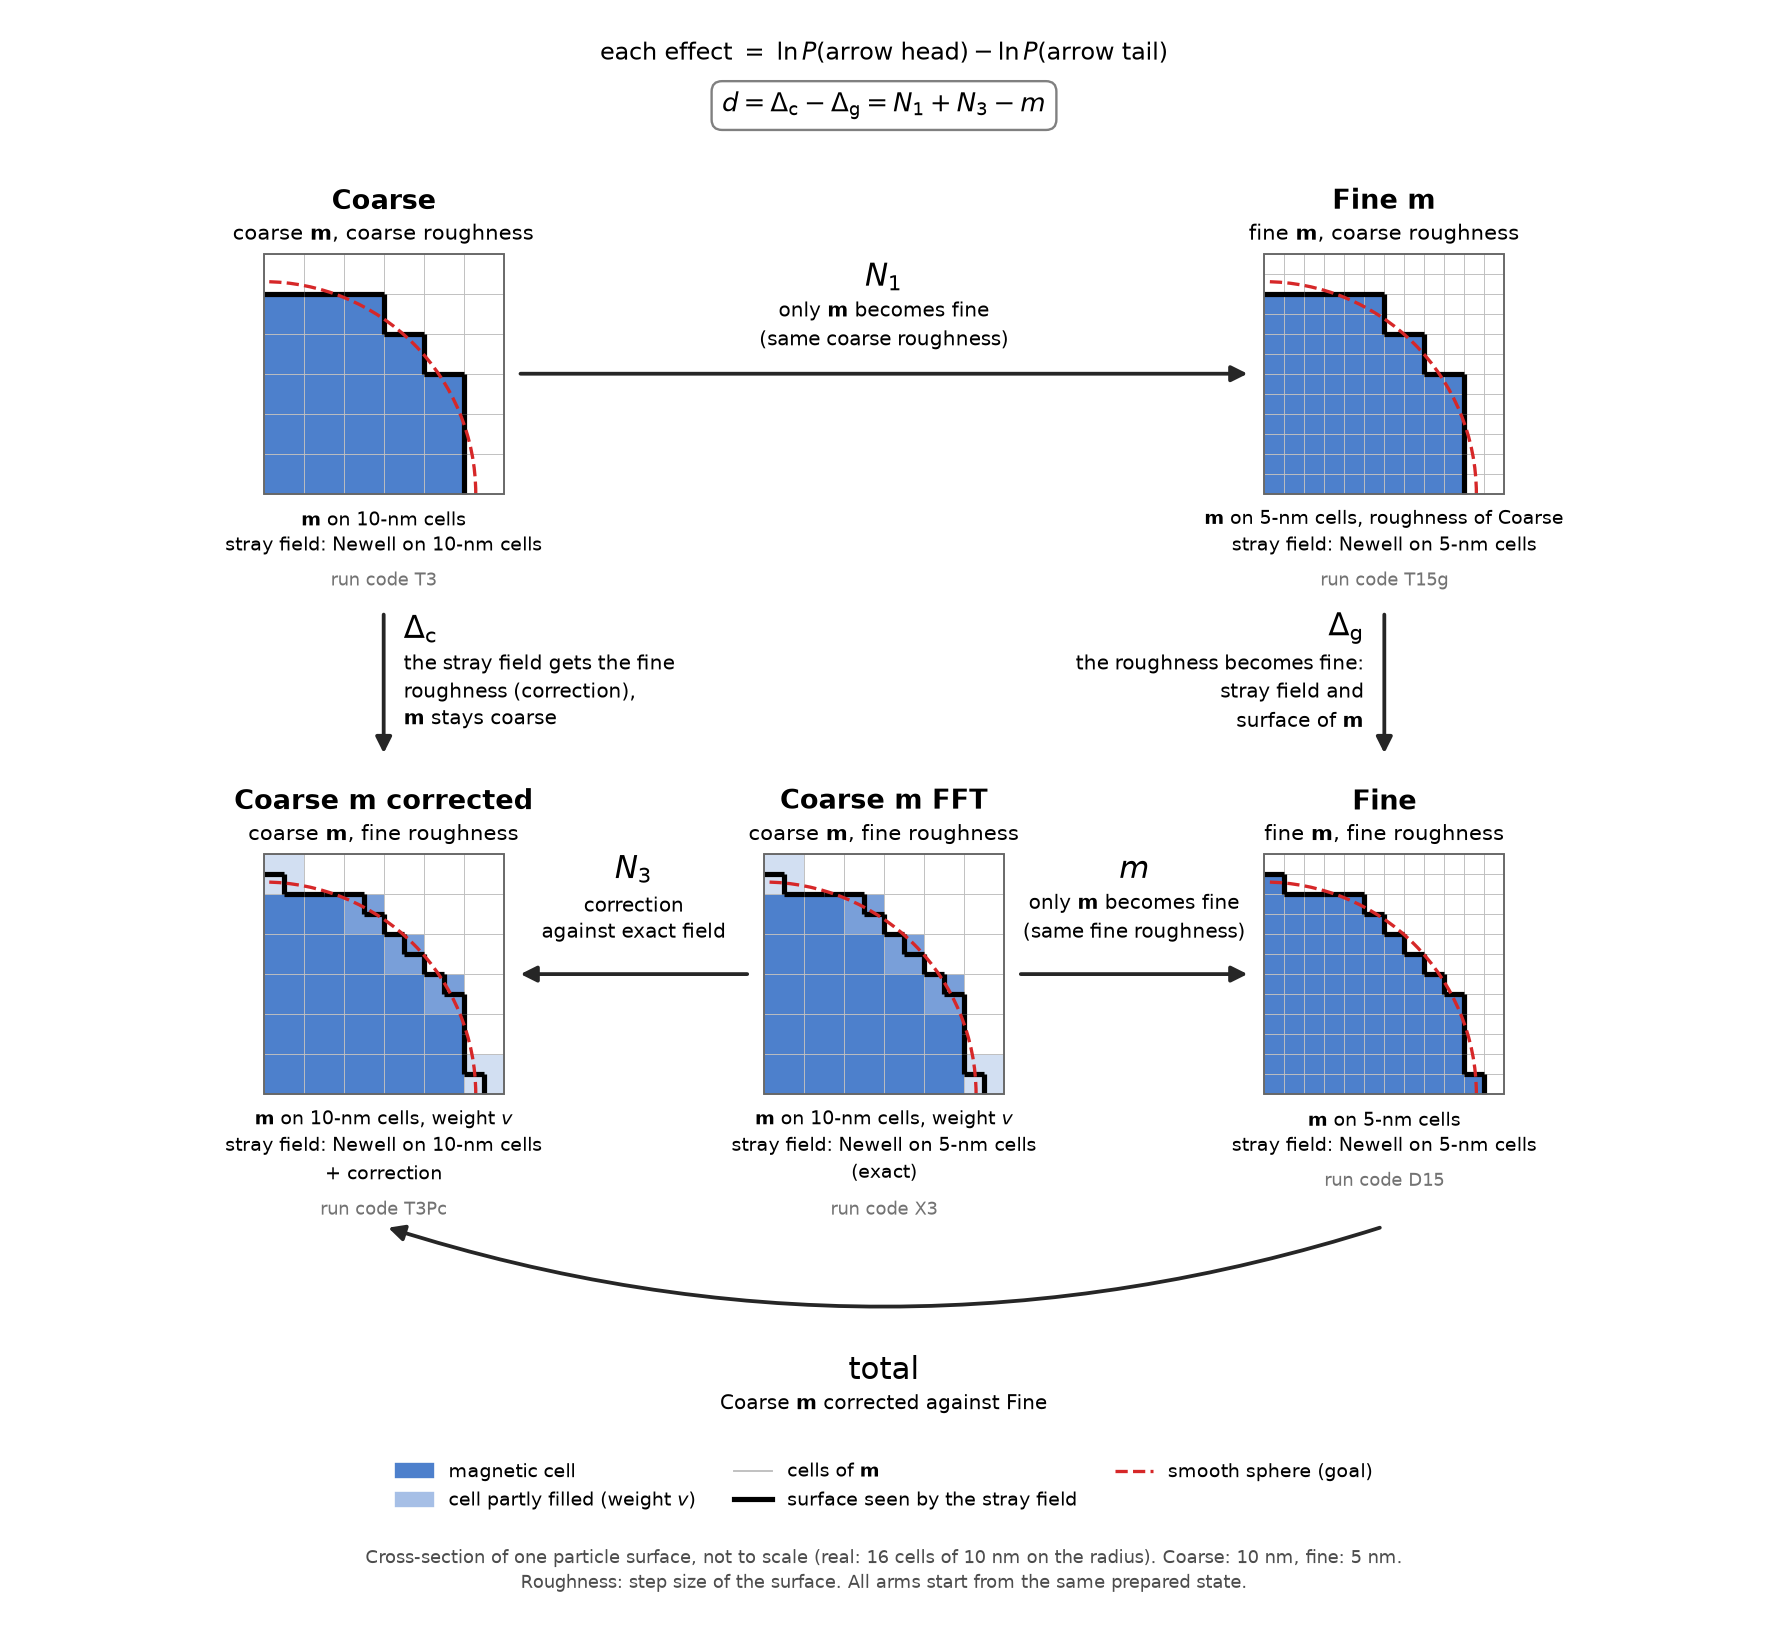
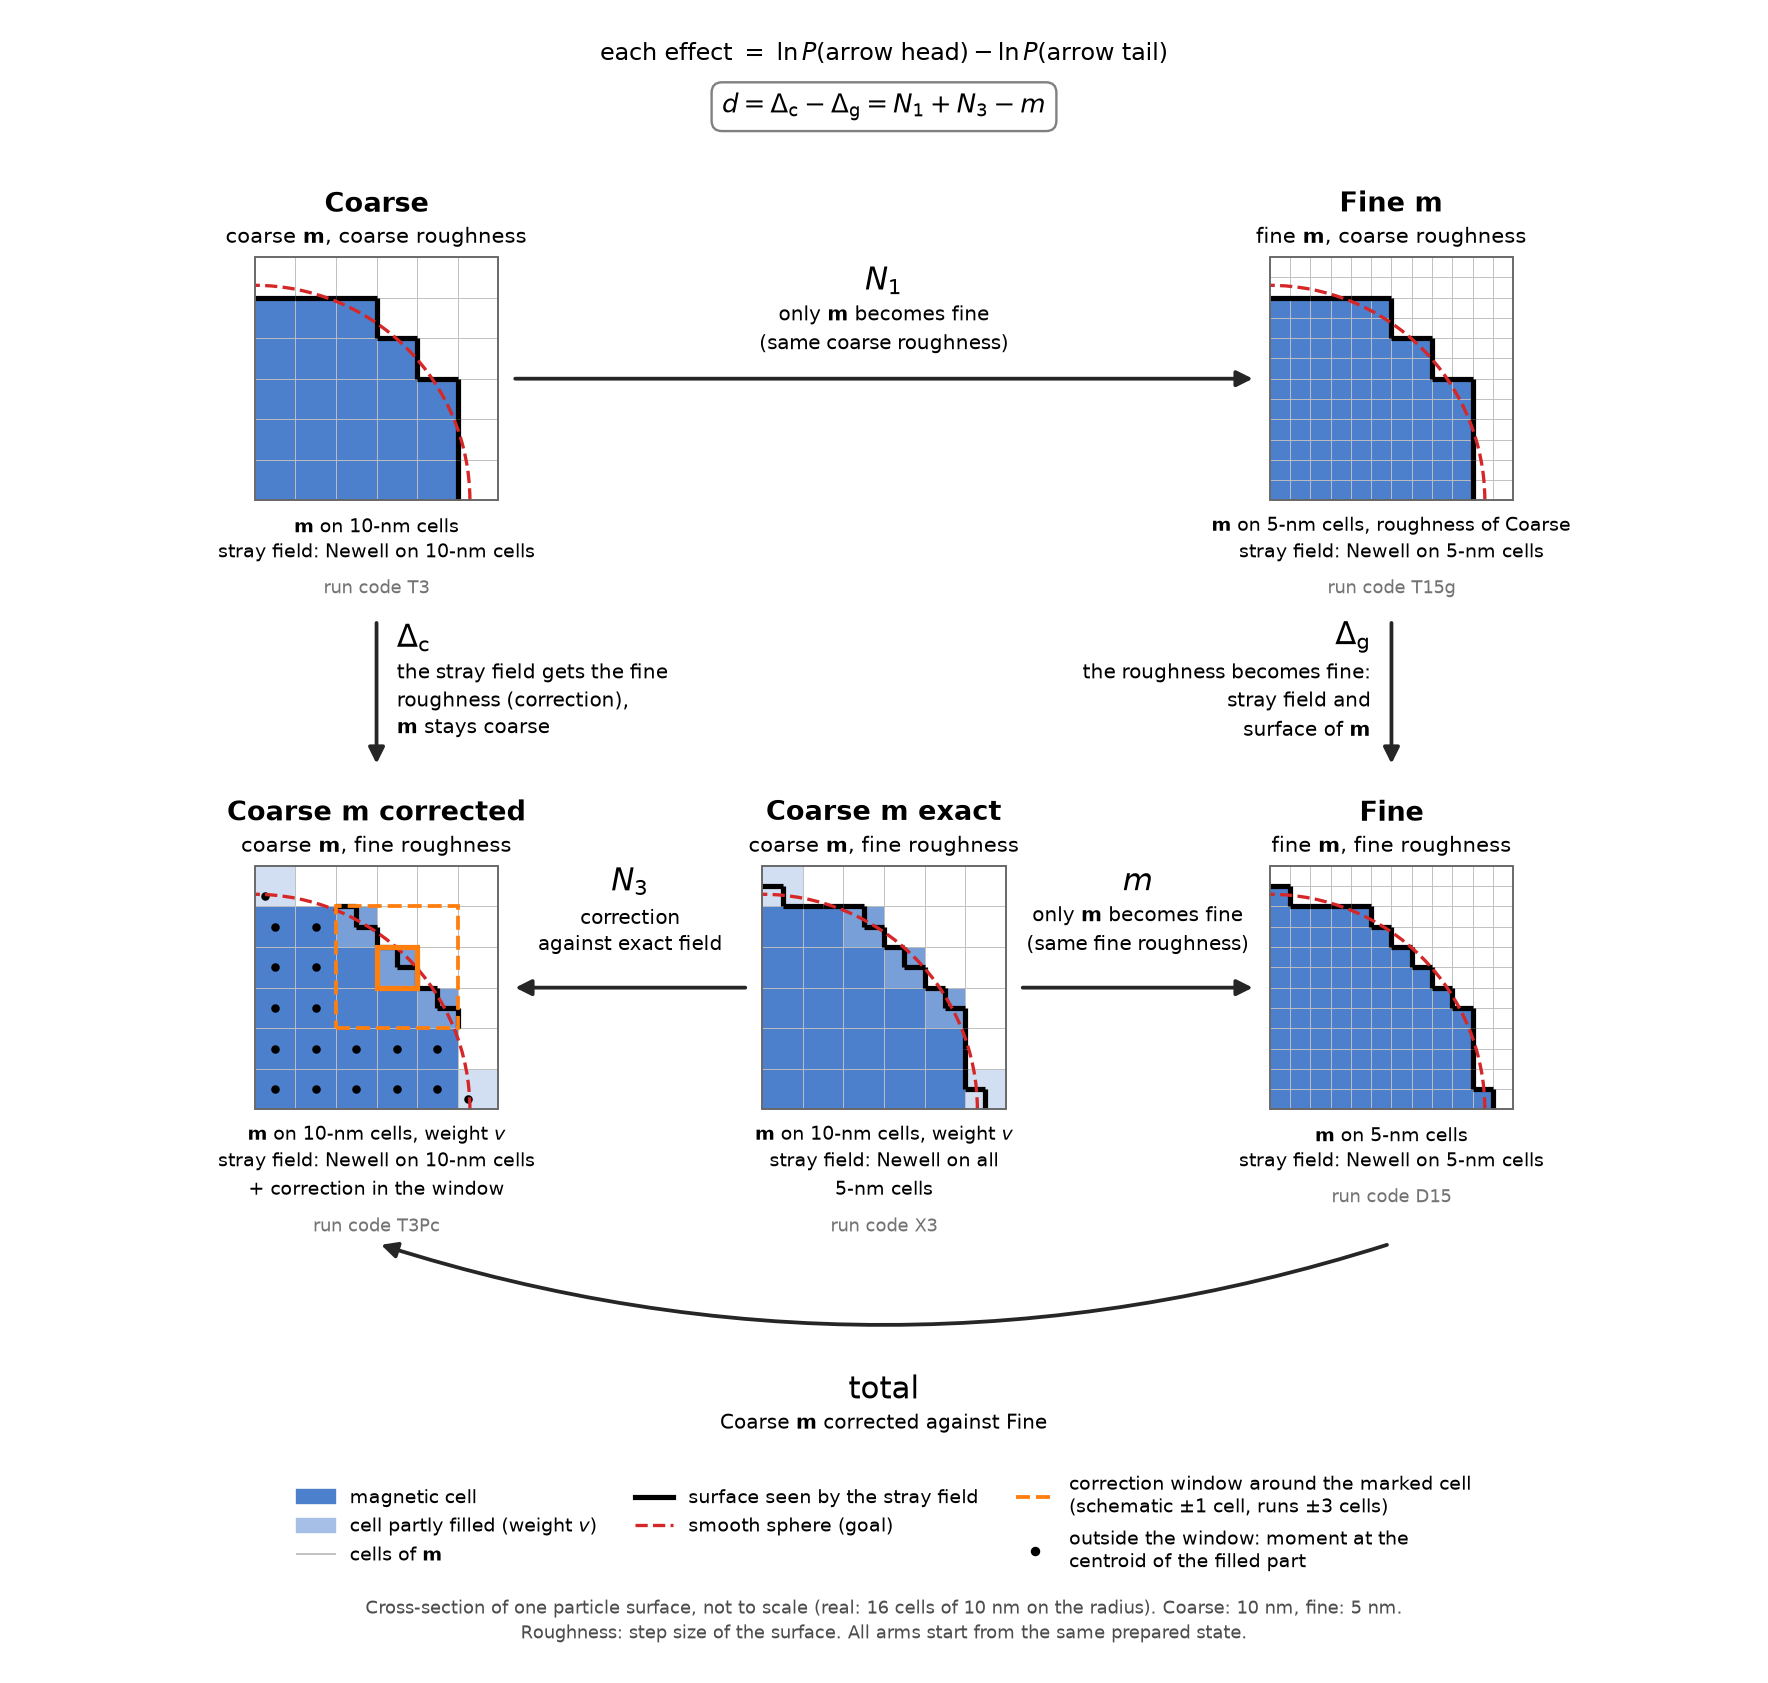
staircase: schematic shows the correction window and the centroid moments; Coarse m exact (X3); wall time per cycle at q 2 (PROTOKOLL 3.28)

Changed region(s): [[0.1244, 0.0938, 0.871, 0.7812], [0.1555, 0.7812, 0.8088, 0.9688], [0.4044, 0.0312, 0.5911, 0.0938]]

diff --git a/studies/staircase_correction/plot_scheme.py b/studies/staircase_correction/plot_scheme.py
@@ -6,7 +6,7 @@ dx 3 l_ex = 10 nm) has 16 cells of 10 nm on its radius; the schematic has 5.3.
 
 Names (Chris, 2026-10-21): coarse 10 nm, fine 5 nm; "roughness" is the step size of the voxelised surface (before:
 "staircase"). Title: a short name, Coarse (run code T3), Fine m (T15g), Fine (D15), Coarse m corrected (T3Pc: Newell on the
-10-nm cells + correction), Coarse m FFT (X3: Newell on the 5-nm cells). All arms use the Newell tensor with FFT. The line below the title always tells what m and the roughness are.
+10-nm cells + correction), Coarse m exact (X3: Newell on all 5-nm cells). All arms use the Newell tensor with FFT. The line below the title always tells what m and the roughness are.
 
     python plot_scheme.py --plot results/scheme_B.png
 """
@@ -23,6 +23,8 @@ from matplotlib.patches import Arc, FancyArrowPatch, Patch, Rectangle  # noqa: E
 R = 5.3          # sphere radius in cells of 10 nm (schematic)
 NC = 6           # cells of 10 nm on each side of a panel
 BLUE = np.array([0.30, 0.50, 0.80])
+ORANGE = "tab:orange"
+W = 1            # half width of the correction window in the schematic (runs: p = 3 cells)
 M = r"$\mathbf{m}$"
 
 
@@ -44,9 +46,18 @@ def outline(F, h):
     return seg
 
 
-def panel(ax, x0, y0, title, sub, text, code, m_h, fill, field_h):
+def target_cell():
+    """The cut cell of 10 nm nearest to the diagonal: centre of the correction window in the schematic."""
+    fine, full = cells(0.5), cells(1.0)
+    cut = {(a // 2, b // 2) for a, b in fine} - {c for c in full if all((2 * c[0] + a, 2 * c[1] + b) in fine
+                                                                       for a in (0, 1) for b in (0, 1))}
+    return min(cut, key=lambda c: abs(c[0] - c[1]) + abs(np.hypot(c[0] + 0.5, c[1] + 0.5) - R))
+
+
+def panel(ax, x0, y0, title, sub, text, code, m_h, fill, field_h, window=False):
     """m_h: cell size of m; fill: 'voxel <h>' or 'fraction' (cells of 10 nm weighted by v); field_h: roughness of the
-    surface that the stray field sees."""
+    surface that the stray field sees. window: the correction (pairwise form) for one target cell: inside the window
+    the fine surface, outside each cell of 10 nm as a moment at the centroid of its filled part."""
     for k in np.arange(0, NC + 1e-9, m_h):
         ax.plot([x0 + k, x0 + k], [y0, y0 + NC], color="0.75", lw=0.4, zorder=1)
         ax.plot([x0, x0 + NC], [y0 + k, y0 + k], color="0.75", lw=0.4, zorder=1)
@@ -59,7 +70,26 @@ def panel(ax, x0, y0, title, sub, text, code, m_h, fill, field_h):
         h = float(fill.split()[1])
         for i, j in cells(h):
             ax.add_patch(Rectangle((x0 + i * h, y0 + j * h), h, h, color=BLUE, lw=0, zorder=0))
-    seg = [[(x0 + a, y0 + b) for a, b in s] for s in outline(cells(field_h), field_h)]
+    seg = outline(cells(field_h), field_h)
+    if window:
+        ti, tj = target_cell()
+        lo, hi = (ti - W, tj - W), (ti + W + 1, tj + W + 1)
+        inside = lambda x, y: lo[0] <= x <= hi[0] and lo[1] <= y <= hi[1]  # noqa: E731
+        seg = [s for s in seg if inside((s[0][0] + s[1][0]) / 2, (s[0][1] + s[1][1]) / 2)]
+        fine = cells(0.5)
+        for i, j in cells(1.0) | {(a // 2, b // 2) for a, b in fine}:
+            if inside(i + 0.5, j + 0.5):
+                continue
+            sub_c = [((2 * i + a + 0.5) / 2, (2 * j + b + 0.5) / 2) for a in (0, 1) for b in (0, 1)
+                     if (2 * i + a, 2 * j + b) in fine]
+            if sub_c:
+                cx, cy = np.mean(sub_c, axis=0)
+                ax.plot([x0 + cx], [y0 + cy], "o", ms=2.6, color="k", zorder=3)
+        x1, y1 = max(lo[0], 0), max(lo[1], 0)
+        ax.add_patch(Rectangle((x0 + x1, y0 + y1), min(hi[0], NC) - x1, min(hi[1], NC) - y1, fill=False,
+                               color=ORANGE, lw=1.6, ls="--", zorder=6))
+        ax.add_patch(Rectangle((x0 + ti, y0 + tj), 1, 1, fill=False, color=ORANGE, lw=2.2, zorder=6))
+    seg = [[(x0 + a, y0 + b) for a, b in s] for s in seg]
     ax.add_collection(LineCollection(seg, colors="k", lw=2.2, zorder=3))
     ax.add_patch(Arc((x0, y0), 2 * R, 2 * R, theta1=0, theta2=90, color="tab:red", lw=1.4, ls="--", zorder=4))
     ax.add_patch(Rectangle((x0, y0), NC, NC, fill=False, color="0.4", lw=0.8, zorder=5))
@@ -82,7 +112,7 @@ def main():
     ap = argparse.ArgumentParser()
     ap.add_argument("--plot", required=True)
     a = ap.parse_args()
-    fig, ax = plt.subplots(figsize=(10.4, 9.6))
+    fig, ax = plt.subplots(figsize=(10.4, 9.9))
     X, Y = (0, 12.5, 25), (0, 15)                                # columns and rows of the panels
     xc = X[1] + NC / 2
     panel(ax, X[0], Y[1], "Coarse", "coarse " + M + ", coarse roughness",
@@ -90,10 +120,10 @@ def main():
     panel(ax, X[2], Y[1], "Fine " + M, "fine " + M + ", coarse roughness",
           M + " on 5-nm cells, roughness of Coarse\nstray field: Newell on 5-nm cells", "T15g", 0.5, "voxel 1", 1.0)
     panel(ax, X[0], Y[0], "Coarse " + M + " corrected", "coarse " + M + ", fine roughness",
-          M + " on 10-nm cells, weight $v$\nstray field: Newell on 10-nm cells\n+ correction", "T3Pc",
-          1.0, "fraction", 0.5)
-    panel(ax, X[1], Y[0], "Coarse " + M + " FFT", "coarse " + M + ", fine roughness",
-          M + " on 10-nm cells, weight $v$\nstray field: Newell on 5-nm cells\n(exact)", "X3",
+          M + " on 10-nm cells, weight $v$\nstray field: Newell on 10-nm cells\n+ correction in the window", "T3Pc",
+          1.0, "fraction", 0.5, window=True)
+    panel(ax, X[1], Y[0], "Coarse " + M + " exact", "coarse " + M + ", fine roughness",
+          M + " on 10-nm cells, weight $v$\nstray field: Newell on all\n5-nm cells", "X3",
           1.0, "fraction", 0.5)
     panel(ax, X[2], Y[0], "Fine", "fine " + M + ", fine roughness",
           M + " on 5-nm cells\nstray field: Newell on 5-nm cells", "D15", 0.5, "voxel 0.5", 0.5)
@@ -121,14 +151,18 @@ def main():
                        Patch(color=1 - 0.5 * (1 - BLUE), label="cell partly filled (weight $v$)"),
                        Line2D([], [], color="0.75", lw=0.8, label="cells of " + M),
                        Line2D([], [], color="k", lw=2.2, label="surface seen by the stray field"),
-                       Line2D([], [], color="tab:red", lw=1.4, ls="--", label="smooth sphere (goal)")],
-              loc="center", bbox_to_anchor=(xc, Y[0] - 9.8), bbox_transform=ax.transData, ncol=3, fontsize=8,
+                       Line2D([], [], color="tab:red", lw=1.4, ls="--", label="smooth sphere (goal)"),
+                       Line2D([], [], color=ORANGE, lw=1.6, ls="--",
+                              label="correction window around the marked cell\n(schematic ±1 cell, runs ±3 cells)"),
+                       Line2D([], [], marker="o", ls="", ms=3, color="k",
+                              label="outside the window: moment at the\ncentroid of the filled part")],
+              loc="center", bbox_to_anchor=(xc, Y[0] - 10.2), bbox_transform=ax.transData, ncol=3, fontsize=8,
               frameon=False)
-    ax.text(xc, Y[0] - 11.9, "Cross-section of one particle surface, not to scale (real: 16 cells of 10 nm on the "
+    ax.text(xc, Y[0] - 12.6, "Cross-section of one particle surface, not to scale (real: 16 cells of 10 nm on the "
             "radius). Coarse: 10 nm, fine: 5 nm.\nRoughness: step size of the surface. All arms start from the same "
             "prepared state.", ha="center", va="center", fontsize=7.5, color="0.3", linespacing=1.4)
     ax.set_xlim(-1.5, X[2] + NC + 1.5)
-    ax.set_ylim(Y[0] - 12.8, Y[1] + 11.7)
+    ax.set_ylim(Y[0] - 13.5, Y[1] + 11.7)
     ax.set_aspect("equal")
     ax.axis("off")
     fig.tight_layout()

diff --git a/studies/staircase_correction/PROTOKOLL.md b/studies/staircase_correction/PROTOKOLL.md
@@ -1500,11 +1500,25 @@ tell what is coarse (10 nm) and what is fine (5 nm). "Roughness" (step size of t
 | Fine m | fine | coarse | Newell on 5-nm cells | T15g |
 | Fine | fine | fine | Newell on 5-nm cells | D15 |
 | Coarse m corrected | coarse, weight v | fine | Newell on 10-nm cells + correction | T3Pc |
-| Coarse m FFT | coarse, weight v | fine | Newell on 5-nm cells (exact for this m) | X3 |
+| Coarse m exact | coarse, weight v | fine | Newell on all 5-nm cells | X3 |
 
 results/scheme_B.png is made again with these names (plot_scheme.py). Final form (Chris): the title is a short
 name that separates the arms at a glance; the line below the title always tells what m and the roughness are (for
 example "fine m, coarse roughness"). All arms use the Newell tensor with FFT (X3: DemagField on the fine mesh,
 DemagStaircaseFine); T3Pc is named "corrected" because only its correction separates it (Chris).
+
+**Coarse m corrected against Coarse m exact** (Chris asked why their two panels were the same). The correction uses
+the fine sub-cells only for the pairs of cells with at least one cut cell (0 < n < q³) inside the window of ±p cells
+around the target cell (p 3, that is ±30 nm); these couplings come once from the geometry (NearCorrection). Outside
+the window each cell acts as the moment M_s v at the centroid of its filled part (centroid term). Coarse m exact does
+one FFT on all fine cells at each evaluation of the field. The schematic now shows the window around one cut cell
+(±1 cell in the schematic) and the centroid moments outside it.
+
+Wall time per cycle at q 2 (stdout.log, median over the cycles of each run folder; the runs shared the GPUs of boxes
+1 … 3 with other runs, thus this is not a controlled benchmark): Coarse 103 … 159 s (12 folders), Coarse m corrected
+364 … 600 s (14), Coarse m exact 188 … 304 s (12), Fine m 328 … 911 s (16), Fine 690 … 1262 s (12). At q 2 the
+correction is not faster than the exact field. The fine FFT grows with q³ (q 8: 384³ cells, kernel 3.5 h and
+1.37 GB, 3.27); the work of the correction at each step depends on the number of cut cells and on the window, nearly
+not on q (its setup grows with q: 43 … 52 min at q 8). No dynamic run at q 4 or q 8 is measured for either arm.
 
 Open decision of Chris (unchanged, 3.26): how to read N1.
